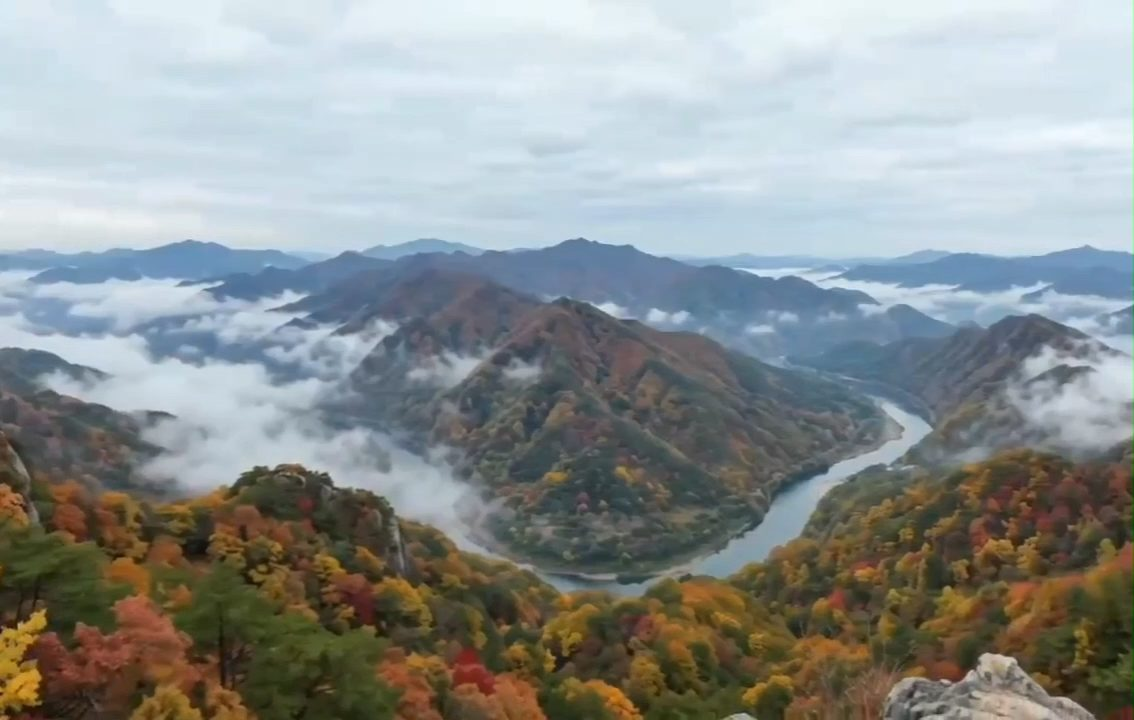
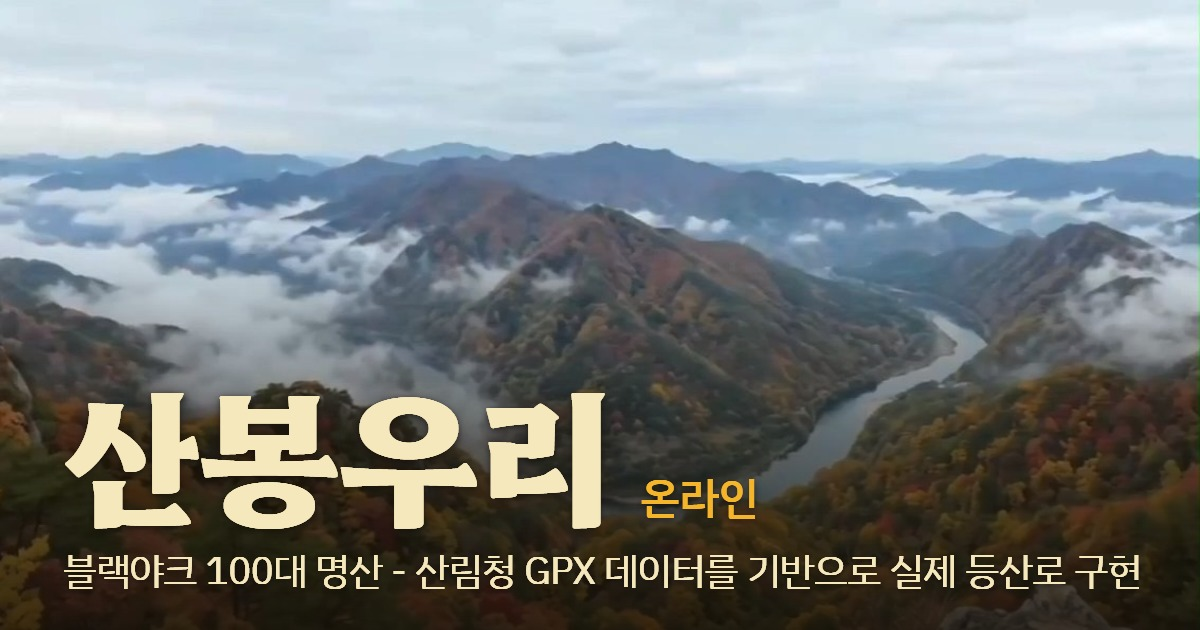
소개 그림(intro.jpg)을 제목과 소개 문구를 얹은 그림으로 바꾸기
첫 화면 대표 화면은 예전 사진을 intro-poster.jpg로 남겨 그대로 쓴다.

diff --git a/index.html b/index.html
@@ -11140,7 +11140,8 @@ function bindControls() {
 }
 
 const START_STAMINA = 100;
-const INTRO_VIDEO = 'media/intro.mp4', INTRO_POSTER = 'media/intro.jpg';
+// 첫 화면 대표 화면은 글씨 없는 사진(intro-poster.jpg). intro.jpg는 글씨를 얹은 소개 그림이라 링크 미리보기와 다른 곳에서 가져다 쓴다
+const INTRO_VIDEO = 'media/intro.mp4', INTRO_POSTER = 'media/intro-poster.jpg';
 
 function toggleAuto() {
   if (state.finished || amen.photo || amen.act === 'drink') return;
